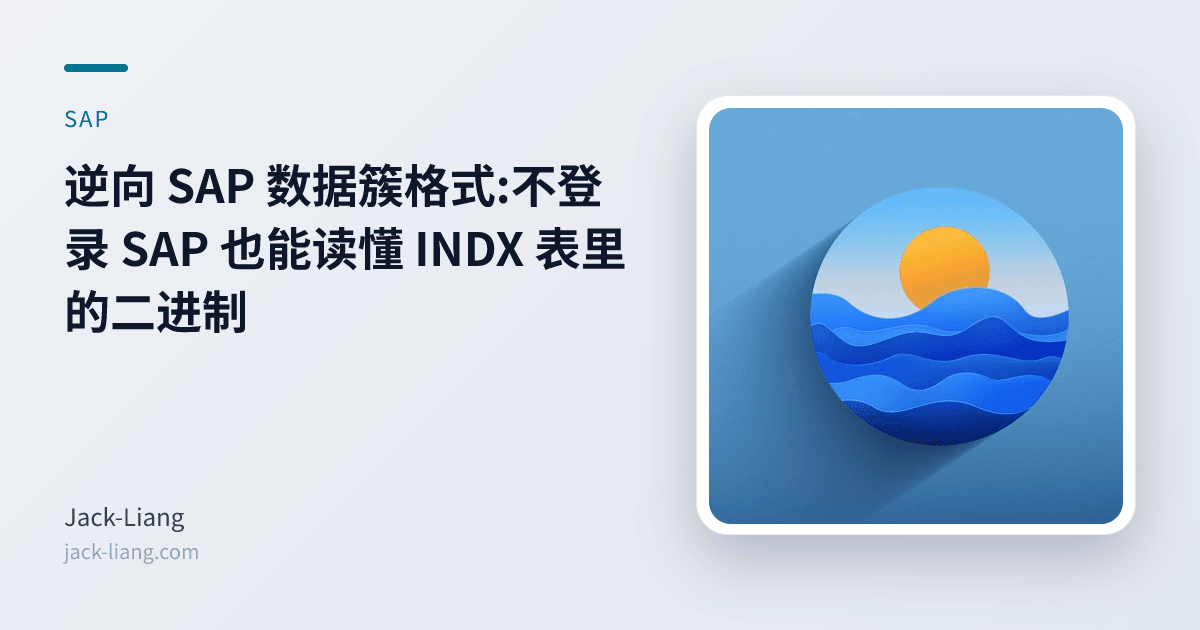
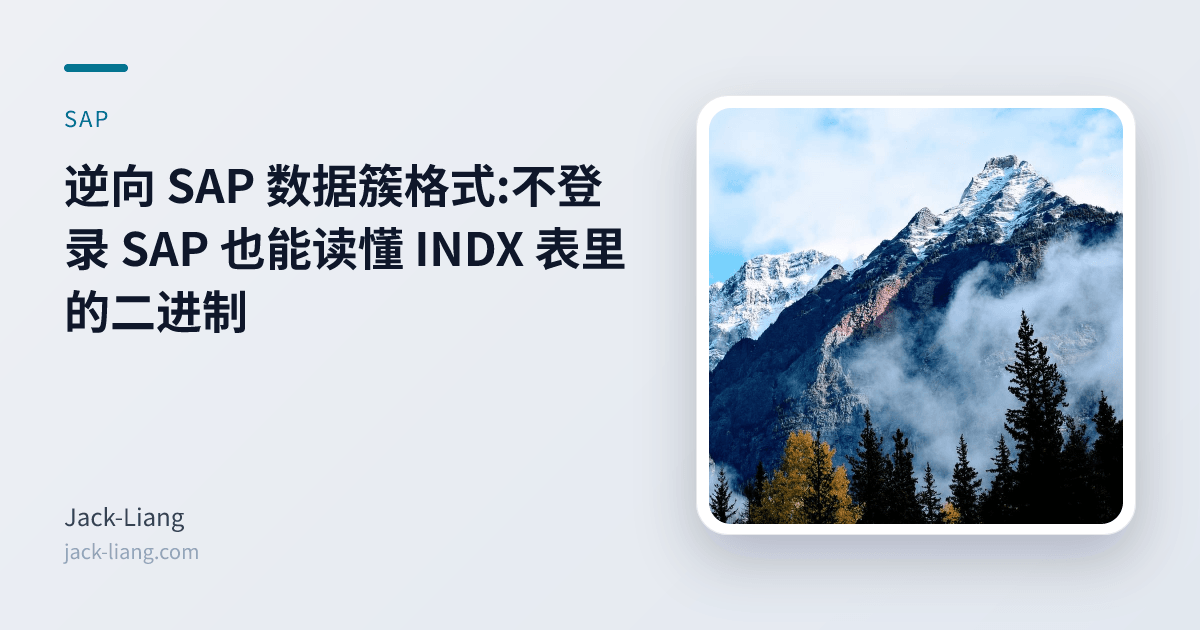
style(blog): 更换 SAP 数据簇文章头图为雪山岩层图

Changed region(s): [[0.5858, 0.1508, 0.9558, 0.8444]]

diff --git a/src/content/blog/sap-indx-data-cluster-decoder.md b/src/content/blog/sap-indx-data-cluster-decoder.md
@@ -10,11 +10,11 @@ tags:
   - 开源项目
   - Python
 featureImage:
-  src: 'https://img.jack-liang.com/00-headImage/post-2.jpg'
+  src: 'https://img.jack-liang.com/00-headImage/pexels_291732_large2x.jpg'
   alt: 逆向 SAP 数据簇格式
 seo:
   image:
-    src: 'https://img.jack-liang.com/00-headImage/post-2.jpg'
+    src: 'https://img.jack-liang.com/00-headImage/pexels_291732_large2x.jpg'
 ---
 
 写 ABAP 的人迟早会撞上这两张表:`INDX` 和 `STXL`。它们是 SAP 的**数据簇表**——`EXPORT ... TO DATABASE` 把任意 ABAP 变量、结构、内表序列化后存进去,`IMPORT` 时再用 ABAP 读回来。SE16 或 DBeaver 里打开,`CLUSTD` 列就是一大团十六进制。
